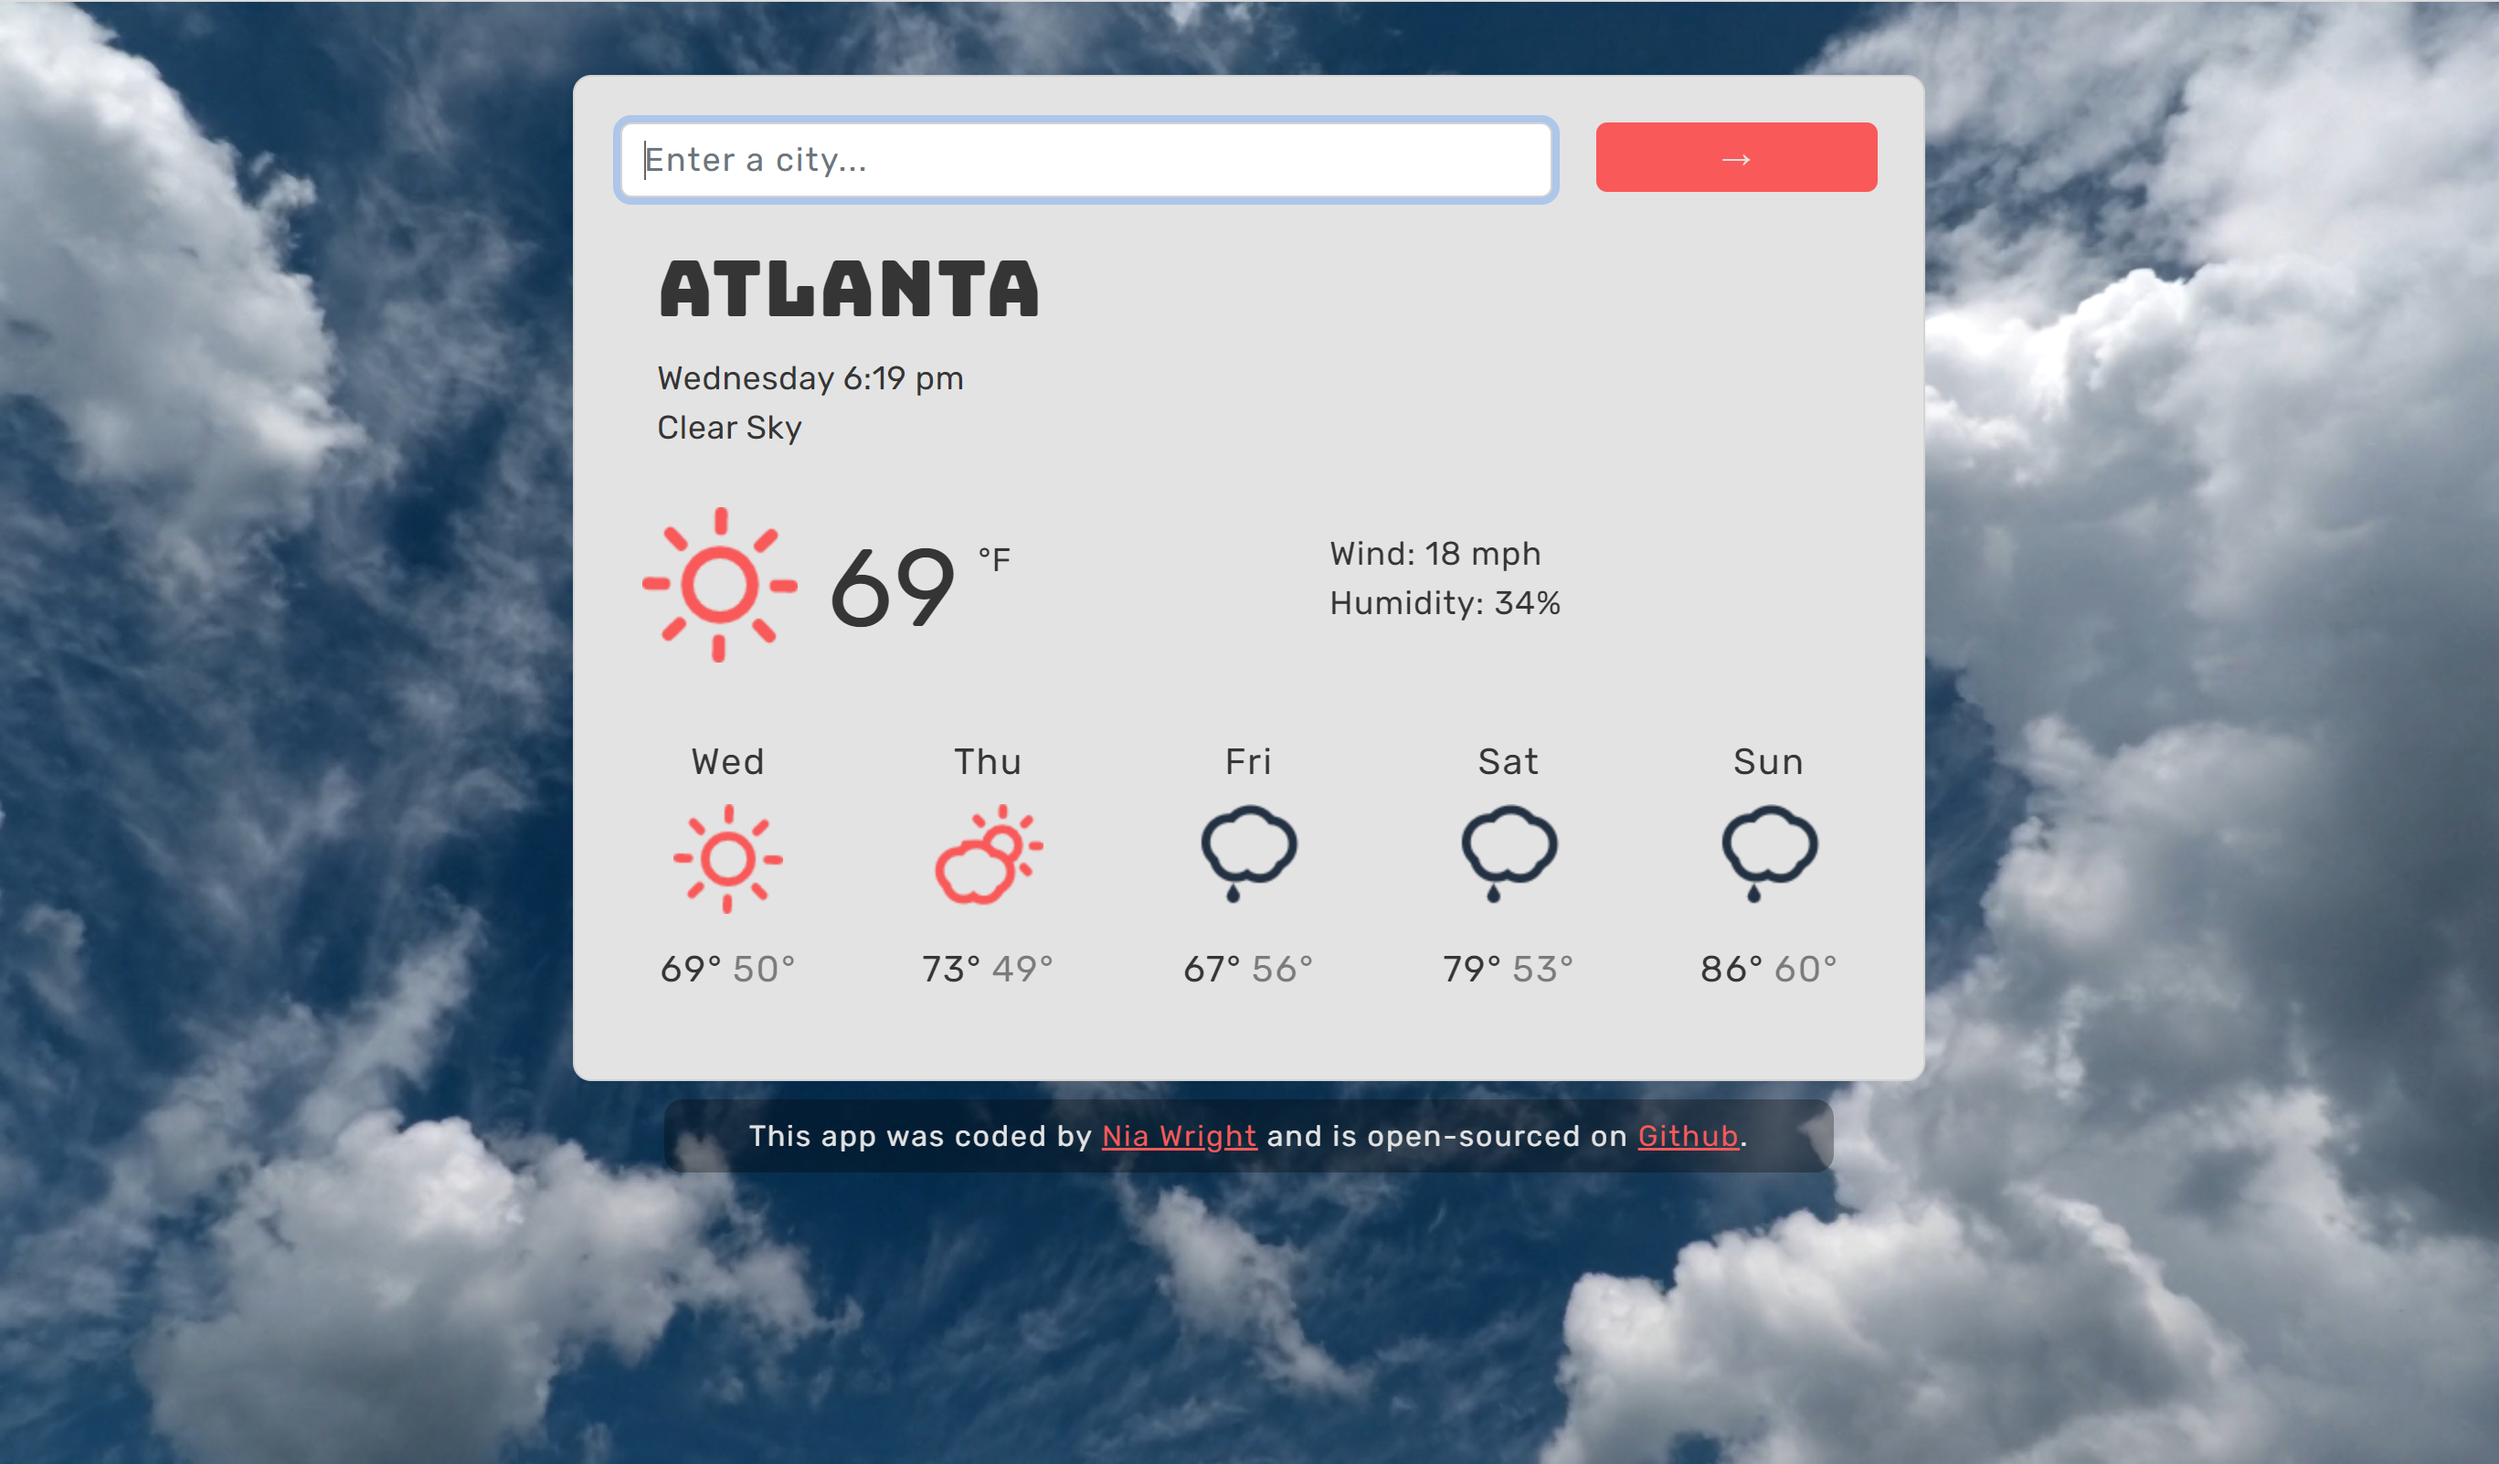
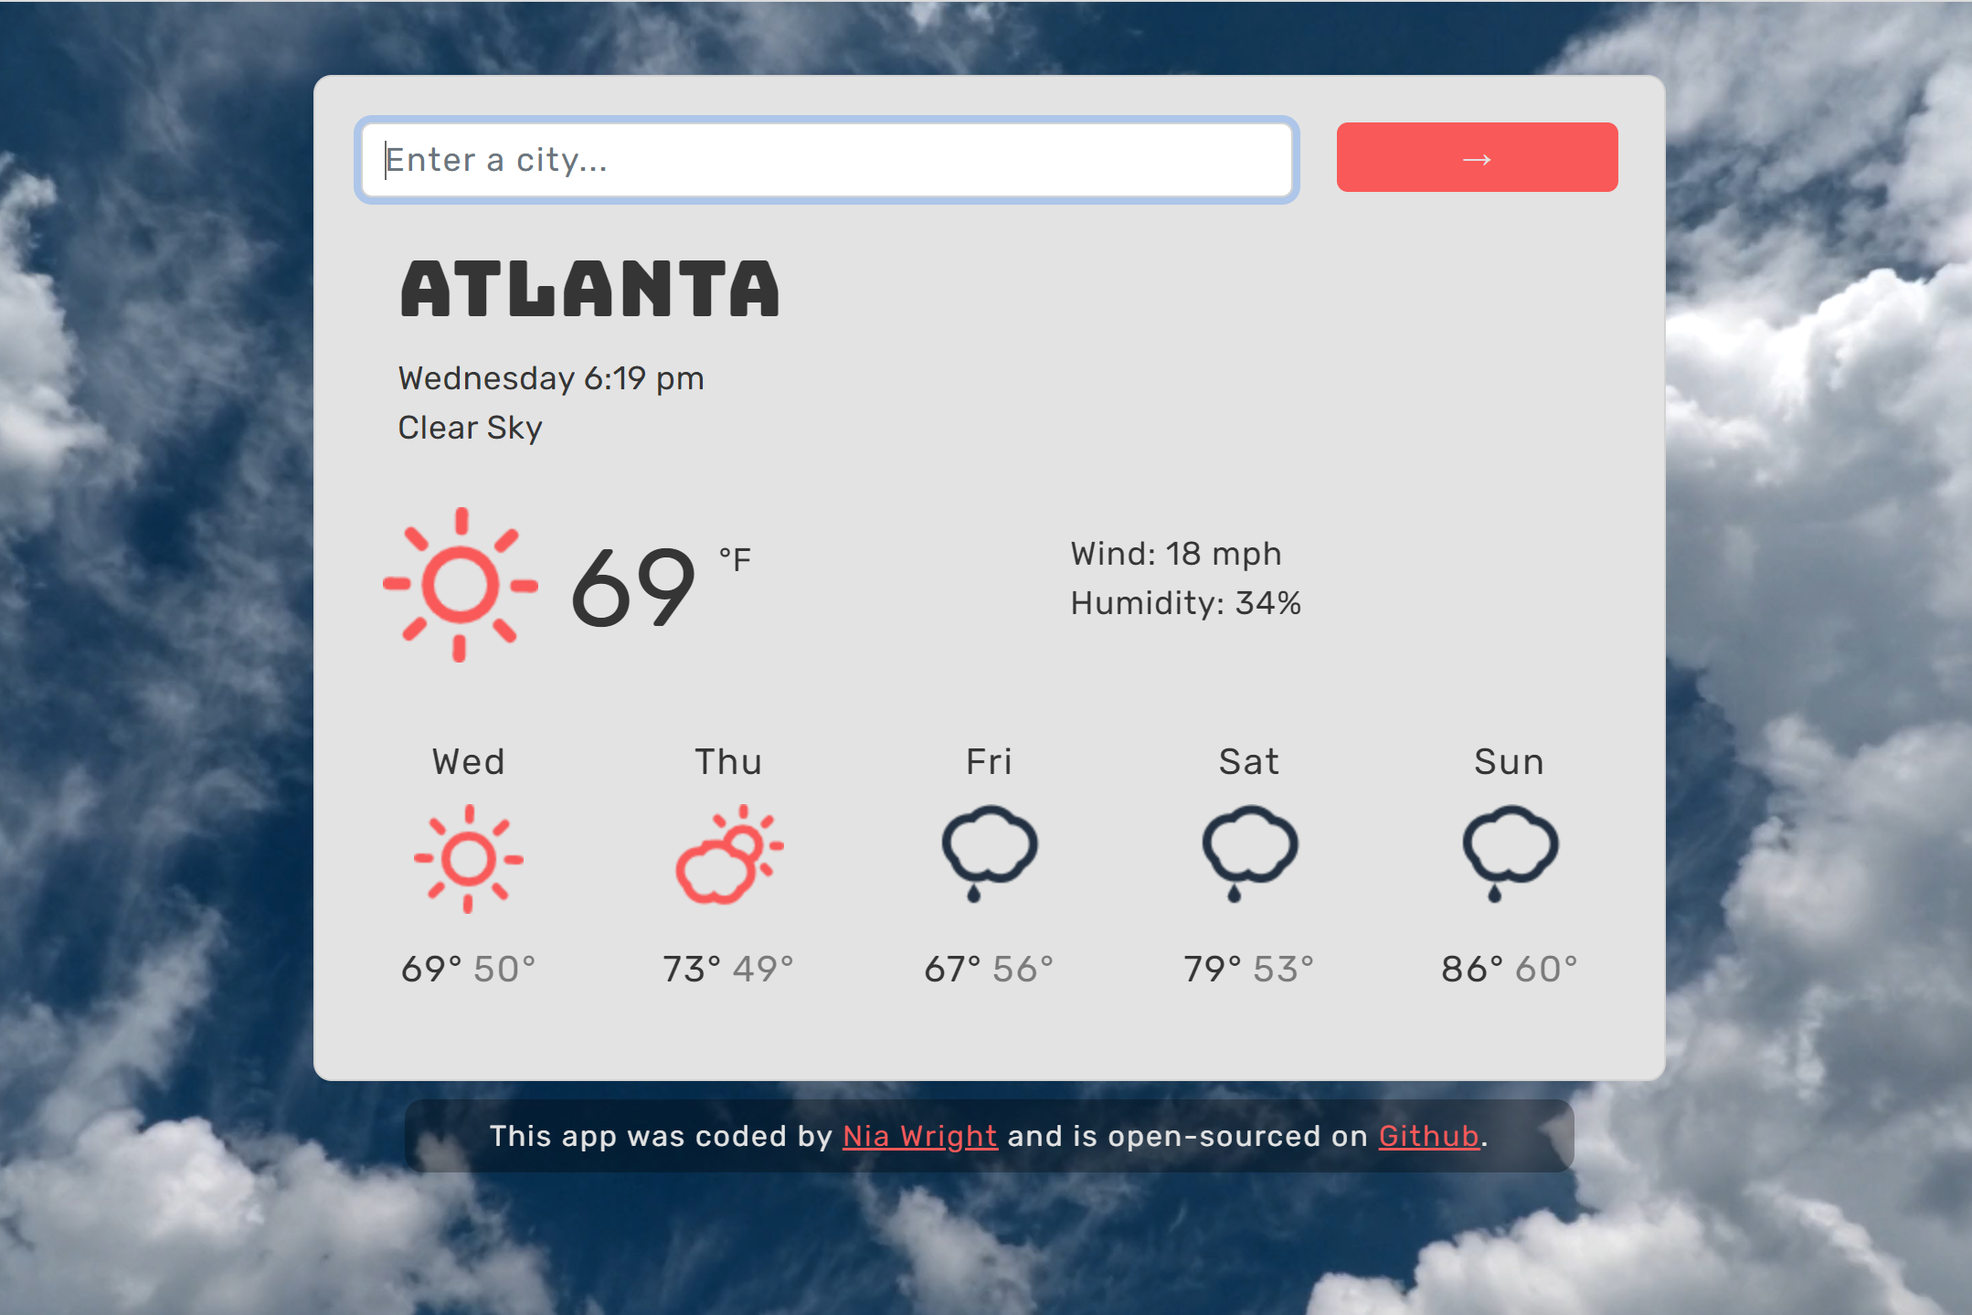
Simplified image names & deleted unnecessary files

diff --git a/work.html b/work.html
@@ -65,7 +65,7 @@
           <div class="col-md-6">
             <a href="https://nw-react-weather-app.netlify.app/" target="_blank">
               <img
-                src="/img/weather-app-zoom.png"
+                src="/img/weather-app.png"
                 alt="screenshot of weather app"
                 title="Weather App"
               />

diff --git a/index.html b/index.html
@@ -77,7 +77,7 @@
         <div class="col-md-4">
           <a href="https://nw-react-weather-app.netlify.app/" target="_blank">
             <img
-              src="img/weather-app-zoom.png"
+              src="img/weather-app.png"
               alt="screenshot of Weather App"
               title="Weather App"
               class="mb-3"
